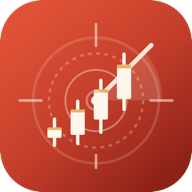
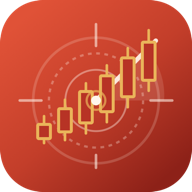
sync: 2026-11-07T17:11:25.628Z

Changed region(s): [[0.1875, 0.1562, 0.8438, 0.7812], [0.8438, 0.4375, 0.875, 0.5]]

diff --git a/index.html b/index.html
@@ -5,12 +5,12 @@
     <meta name="viewport" content="width=device-width, initial-scale=1.0" />
     <meta
       name="description"
-      content="A股集合竞价风险调整选股面板，每日只显示一只最合适标的。"
+      content="竞价寻龙：基于涨停基因、集合竞价量能和板块共振的A股短线选股策略。"
     />
     <meta name="theme-color" content="#F2EEE5" />
     <meta name="apple-mobile-web-app-capable" content="yes" />
     <meta name="apple-mobile-web-app-status-bar-style" content="default" />
-    <meta name="apple-mobile-web-app-title" content="竞价雷达" />
+    <meta name="apple-mobile-web-app-title" content="竞价寻龙" />
     <link rel="manifest" href="%BASE_URL%manifest.webmanifest" />
     <link rel="apple-touch-icon" href="%BASE_URL%icon-192.png" />
     <link rel="icon" href="%BASE_URL%icon.svg" type="image/svg+xml" />
@@ -20,7 +20,7 @@
       href="https://fonts.googleapis.com/css2?family=IBM+Plex+Mono:wght@400;500;600&family=Noto+Sans+SC:wght@400;500;600;700&family=Noto+Serif+SC:wght@500;600;700;900&display=swap"
       rel="stylesheet"
     />
-    <title>竞价雷达 · C.A.R.</title>
+    <title>竞价寻龙 · 集合竞价涨停基因策略</title>
   </head>
   <body>
     <div id="root"></div>

diff --git a/src/App.tsx b/src/App.tsx
@@ -217,13 +217,13 @@ function App() {
   return (
     <div className="app-shell">
       <header className="topbar">
-        <a className="brand" href="#top" aria-label="竞价雷达首页">
+        <a className="brand" href="#top" aria-label="竞价寻龙首页">
           <span className="brand-mark">
             <Radar size={19} strokeWidth={1.7} />
           </span>
           <span>
-            <strong>竞价雷达</strong>
-            <small>CALL AUCTION RADAR</small>
+            <strong>竞价寻龙</strong>
+            <small>涨停基因雷达</small>
           </span>
         </a>
 
@@ -549,7 +549,7 @@ function App() {
           <div>
             <Radar size={17} />
             <span>
-              竞价雷达 C.A.R. · BROWSER PWA · LIVE SYNC · BUILD{" "}
+              竞价寻龙 · LIMIT-UP GENE STRATEGY · BUILD{" "}
               {__BUILD_ID__.slice(0, 16).replace("T", " ")}
             </span>
           </div>

diff --git a/capacitor.config.ts b/capacitor.config.ts
@@ -2,7 +2,7 @@ import type { CapacitorConfig } from '@capacitor/cli';
 
 const config: CapacitorConfig = {
   appId: 'com.yjh832.auctionradar',
-  appName: '竞价雷达',
+  appName: '竞价寻龙',
   webDir: 'dist',
   server: {
     url: 'https://yjh832.github.io/auction-radar/',

diff --git a/public/sw.js b/public/sw.js
@@ -1,4 +1,4 @@
-const CACHE_NAME = "auction-radar-shell-v6";
+const CACHE_NAME = "auction-radar-shell-v7";
 const BASE = new URL(self.registration.scope).pathname;
 const APP_SHELL = [
   BASE,

diff --git a/README.md b/README.md
@@ -1,4 +1,4 @@
-# 竞价雷达 C.A.R.
+# 竞价寻龙 · 涨停基因策略
 
 纯浏览器 A 股集合竞价研究面板。没有后端、数据库或云盘；候选数据随静态站点发布，实时行情由浏览器直连新浪公开行情接口，计算和缓存全部在用户设备本地完成。
 
